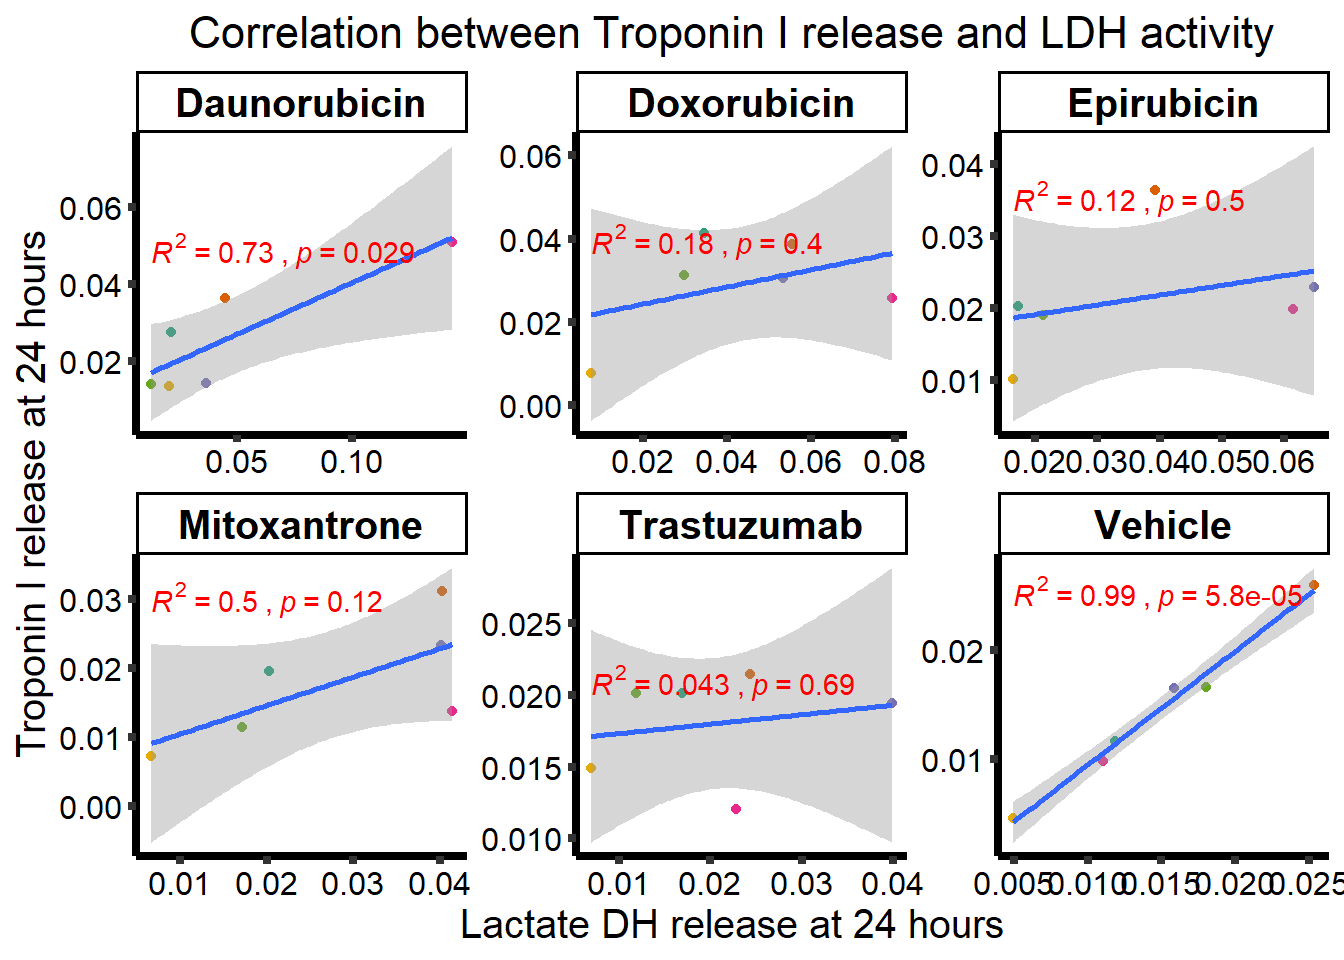
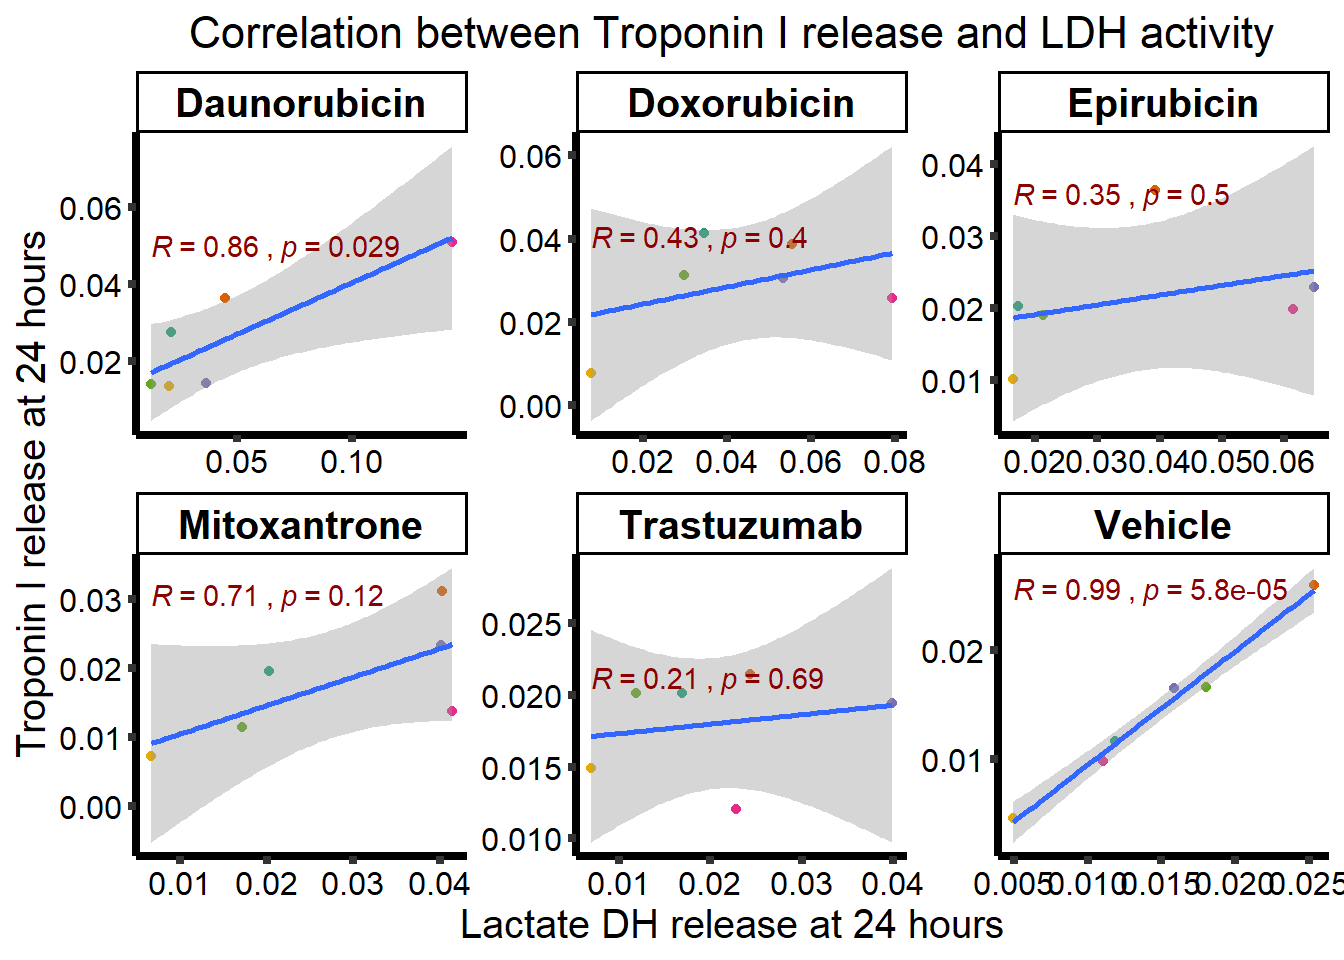
Build site.

diff --git a/docs/LDH_analysis.html b/docs/LDH_analysis.html
@@ -11,7 +11,7 @@
 
 <meta name="author" content="ERM" />
 
-<meta name="date" content="2023-06-16" />
+<meta name="date" content="2023-06-21" />
 
 <title>LDH_analysis</title>
 
@@ -361,7 +361,7 @@ div.tocify {
 
 <h1 class="title toc-ignore">LDH_analysis</h1>
 <h4 class="author">ERM</h4>
-<h4 class="date">2023-06-16</h4>
+<h4 class="date">2023-06-21</h4>
 
 </div>
 
@@ -390,7 +390,7 @@ class="glyphicon glyphicon-ok text-success" aria-hidden="true"></span>
 <div class="tab-content">
 <div id="summary" class="tab-pane fade in active">
 <p>
-<strong>Last updated:</strong> 2023-06-16
+<strong>Last updated:</strong> 2023-06-21
 </p>
 <p>
 <strong>Checks:</strong> <span
@@ -521,15 +521,15 @@ project makes it easier to run your code on other machines.</p>
 <div class="panel panel-default">
 <div class="panel-heading">
 <p class="panel-title">
-<a data-toggle="collapse" data-parent="#workflowr-checks" href="#strongRepositoryversionstrongahrefhttpsgithubcomreneeisnowhereCardiotoxicitytreec2db62c979d54c87779bd852be9d4b9ff3693685targetblankc2db62ca">
+<a data-toggle="collapse" data-parent="#workflowr-checks" href="#strongRepositoryversionstrongahrefhttpsgithubcomreneeisnowhereCardiotoxicitytree3cc0a111011d100801837904edb430c14dc1b3datargetblank3cc0a11a">
 <span class="glyphicon glyphicon-ok text-success"
 aria-hidden="true"></span> <strong>Repository version:</strong>
-<a href="https://github.com/reneeisnowhere/Cardiotoxicity/tree/c2db62c979d54c87779bd852be9d4b9ff3693685" target="_blank">c2db62c</a>
+<a href="https://github.com/reneeisnowhere/Cardiotoxicity/tree/3cc0a111011d100801837904edb430c14dc1b3da" target="_blank">3cc0a11</a>
 </a>
 </p>
 </div>
 <div
[2 lines of base64/hex data omitted]
 class="panel-collapse collapse">
 <div class="panel-body">
 <p>
@@ -539,7 +539,7 @@ reproducibility.
 </p>
 <p>
 The results in this page were generated with repository version
-<a href="https://github.com/reneeisnowhere/Cardiotoxicity/tree/c2db62c979d54c87779bd852be9d4b9ff3693685" target="_blank">c2db62c</a>.
+<a href="https://github.com/reneeisnowhere/Cardiotoxicity/tree/3cc0a111011d100801837904edb430c14dc1b3da" target="_blank">3cc0a11</a>.
 See the <em>Past versions</em> tab to see a history of the changes made
 to the R Markdown and HTML files.
 </p>
@@ -680,6 +680,7 @@ Untracked files:
     Untracked:  motif_LR.txt
     Untracked:  motif_NR.txt
     Untracked:  motif_TI.txt
+    Untracked:  output/Doxonly_deg.csv
     Untracked:  output/daplot.RDS
     Untracked:  output/dxplot.RDS
     Untracked:  output/epplot.RDS
@@ -688,6 +689,11 @@ Untracked files:
     Untracked:  output/trplot.RDS
     Untracked:  output/veplot.RDS
     Untracked:  reneebasecode.R
+
+Unstaged changes:
+    Modified:   analysis/Figure1.Rmd
+    Modified:   analysis/GTEx_genes.Rmd
+    Modified:   analysis/other_analysis.Rmd
 
 </code></pre>
 <p>
@@ -733,6 +739,40 @@ Message
 </tr>
 </thead>
 <tbody>
+<tr>
+<td>
+Rmd
+</td>
+<td>
+<a href="https://github.com/reneeisnowhere/Cardiotoxicity/blob/3cc0a111011d100801837904edb430c14dc1b3da/analysis/LDH_analysis.Rmd" target="_blank">3cc0a11</a>
+</td>
+<td>
+reneeisnowhere
+</td>
+<td>
+2023-06-21
+</td>
+<td>
+simplify code, add rho
+</td>
+</tr>
+<tr>
+<td>
+html
+</td>
+<td>
+<a href="https://rawcdn.githack.com/reneeisnowhere/Cardiotoxicity/e56d7a3eac5b9d2e0b7437da3c1fd91e902c1bbc/docs/LDH_analysis.html" target="_blank">e56d7a3</a>
+</td>
+<td>
+reneeisnowhere
+</td>
+<td>
+2023-06-16
+</td>
+<td>
+Build site.
+</td>
+</tr>
 <tr>
 <td>
 Rmd
